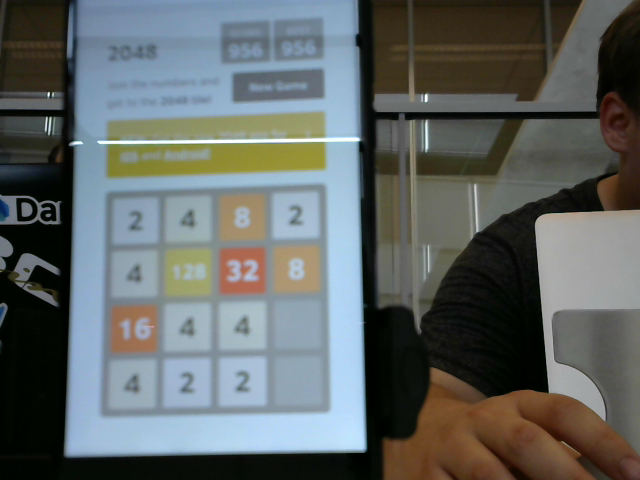
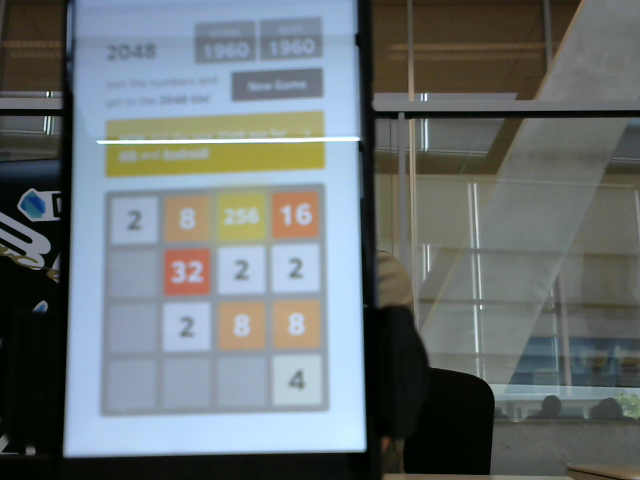
Template toegevoegd, makkelijker gemaakt om te zien welke move gedaan moet worden

diff --git a/main.py b/main.py
@@ -18,9 +18,9 @@ def main():
     vision.init()
     direction = None
     while (direction != -1):
-        direction = getDirection()
-        print(direction)
-        #doMove(direction)
+        #direction = getDirection()
+        #print(direction)
+        doMove(getDirection())
     #rob.movej(positions.get("start"), wait=True, vel=0.7, acc=1.1, pose=True)
     # loop
     #doMove(getDirection())
@@ -32,17 +32,22 @@ def main():
 def doMove(direction):
 
     #go to center of screen and do move
-    rob.movel(positions.get("center"), wait=True, vel=0.7, acc=1.1)
+    #rob.movel(positions.get("center"), wait=True, vel=0.7, acc=1.1)
+
     if direction == 0:
-        rob.movel(positions.get("left"), wait=True, vel=0.7, acc=1.1)
+        #rob.movel(positions.get("left"), wait=True, vel=0.7, acc=1.1)
+        print("Left!")
     elif direction == 1:
-        rob.movel(positions.get("up"), wait=True, vel=0.7, acc=1.1)
+        #rob.movel(positions.get("up"), wait=True, vel=0.7, acc=1.1)
+        print("Up!")
     elif direction == 2:
-        rob.movel(positions.get("right"), wait=True, vel=0.7, acc=1.1)
+        #rob.movel(positions.get("right"), wait=True, vel=0.7, acc=1.1)
+        print("Right!")
     elif direction == 3:
-        rob.movel(positions.get("down"), wait=True, vel=0.7, acc=1.1)
+        #rob.movel(positions.get("down"), wait=True, vel=0.7, acc=1.1)
+        print("Down!")
     #move back to start
-    rob.movej(positions.get("start"), wait=True, vel=0.7, acc=1.1, pose=True)
+    #rob.movej(positions.get("start"), wait=True, vel=0.7, acc=1.1, pose=True)
 
 
 def getDirection():
